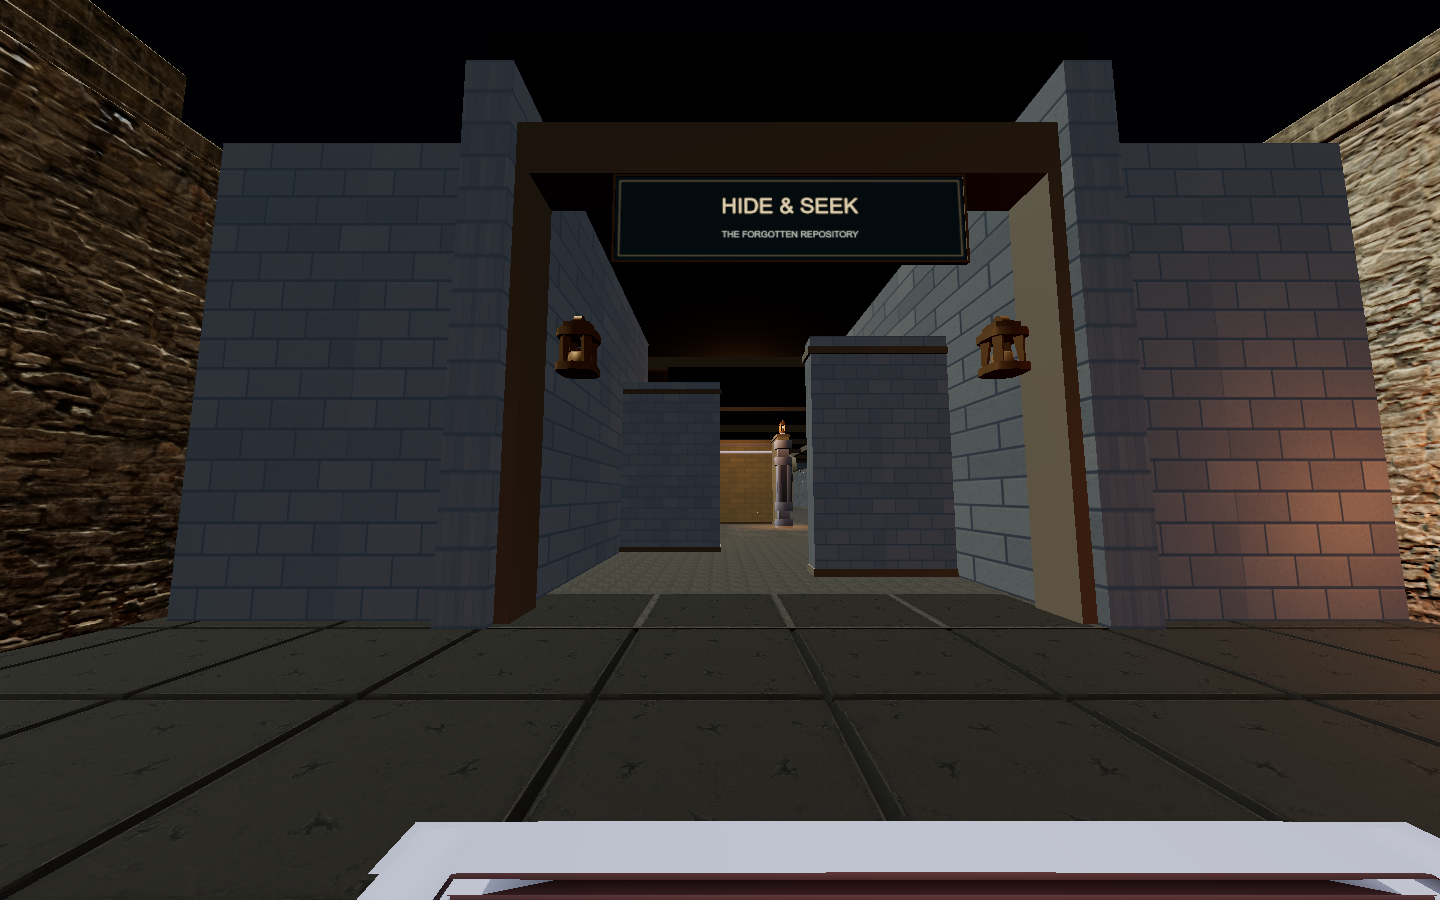
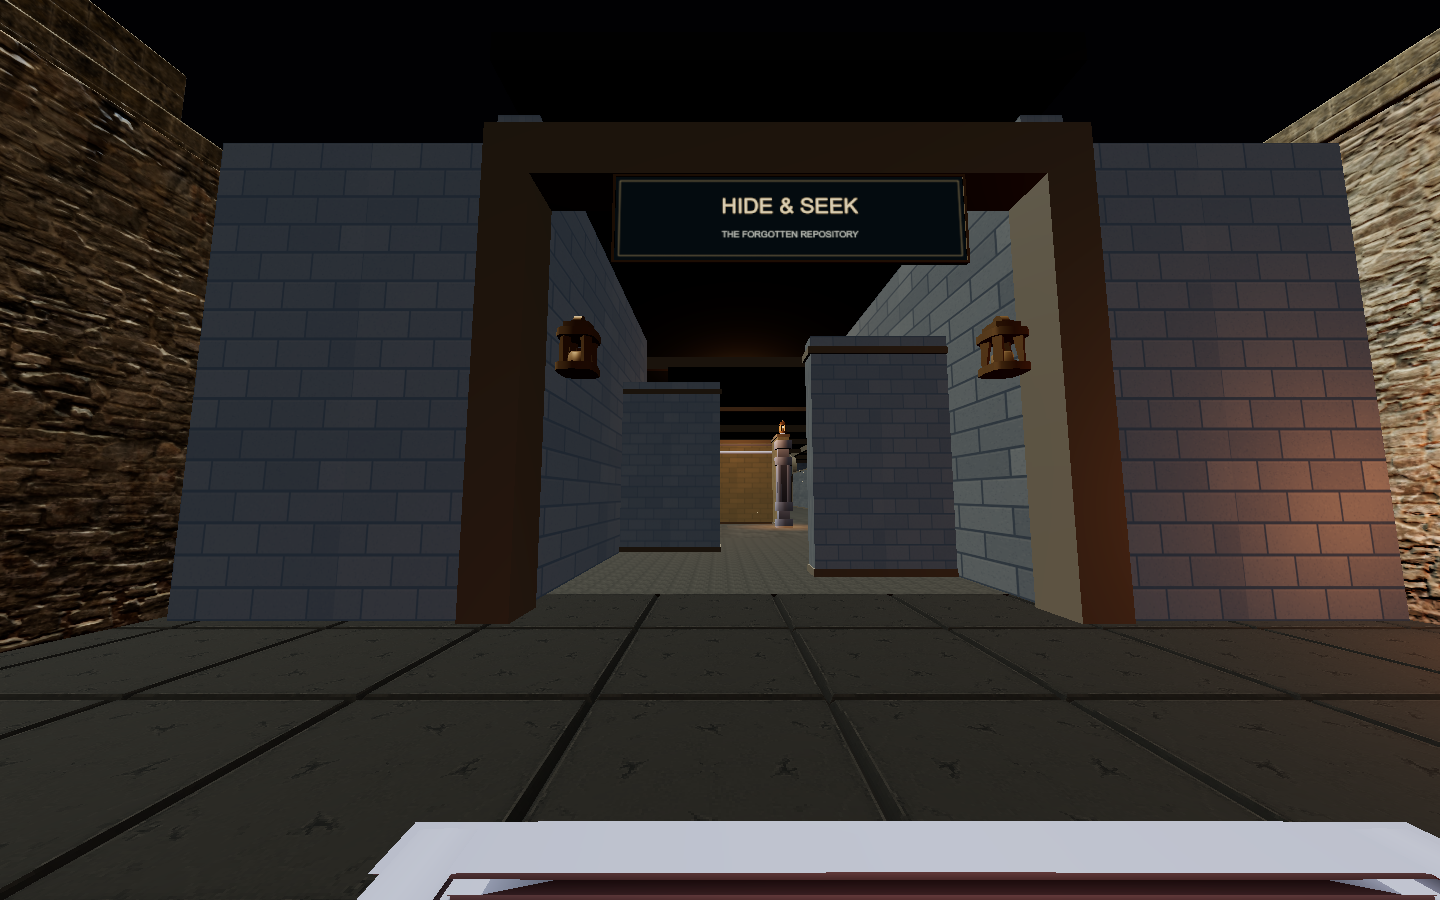
Fix overlapping surfaces at hide-and-seek entrance

diff --git a/src/courtyard-hide-and-seek-scene.ts b/src/courtyard-hide-and-seek-scene.ts
@@ -1,7 +1,7 @@
 import * as THREE from 'three';
 import {GLTFLoader} from 'three/addons/loaders/GLTFLoader.js';
 import {createCourtyardSign} from './courtyard-sign';
-import {HIDE_WALLS,HIDE_PARTITIONS,HIDE_COVER,HIDE_PROPS,HIDE_ISLANDS,HIDE_ZONES,HIDE_GATEPOSTS,hideLocal,type HideBlock} from './courtyard-hide-and-seek';
+import {HIDE_WALLS,HIDE_PARTITIONS,HIDE_COVER,HIDE_PROPS,HIDE_ISLANDS,HIDE_ZONES,HIDE_GATEPOSTS,HIDE_FLOORS,HIDE_ROOFS,hideLocal,type HideBlock} from './courtyard-hide-and-seek';
 
 /** An enclosed lantern-lit repository. All cover is built from the physics layout. */
 export class CourtyardHideAndSeekScene{
@@ -74,9 +74,9 @@ export class CourtyardHideAndSeekScene{
   this.cubes('repository-walls',[...HIDE_WALLS,...HIDE_PARTITIONS],this.stone);
   for(const zone of HIDE_ZONES){const material=this.stone.clone();material.color.setHex(zone.color);material.emissive.setHex(zone.color);material.emissiveIntensity=.09;const blocks=HIDE_ISLANDS.flatMap((island,i)=>island.zone===zone.id?HIDE_COVER.slice(i*3,i*3+3):[]);this.cubes('repository-cover-'+zone.id,blocks,material);}
   // Continuous roof, including the passage. No walkable upper level or open seams.
-  this.cubes('repository-vault',[{x:-50,z:2,w:65.4,d:57.4,h:.45},{x:-12.15,z:2,w:12.4,d:8.7,h:.45}],new THREE.MeshStandardMaterial({color:0x252b30,roughness:1}),8);
+  this.cubes('repository-vault',HIDE_ROOFS,new THREE.MeshStandardMaterial({color:0x252b30,roughness:1}),8);
   const floorMap=this.stoneTexture();floorMap.repeat.set(25,22);
-  this.cubes('repository-floor',[{x:-50,z:2,w:64,d:56,h:.16},{x:-12.15,z:2,w:12.3,d:8,h:.16}],new THREE.MeshStandardMaterial({map:floorMap,color:0x85817b,roughness:.95}),-.16);
+  this.cubes('repository-floor',HIDE_FLOORS,new THREE.MeshStandardMaterial({map:floorMap,color:0x85817b,roughness:.95}),-.16);
   const caps=[...HIDE_PARTITIONS,...HIDE_COVER].map(b=>({...b,w:b.w+.12,d:b.d+.12,h:.16}));
   this.cubes('repository-coping',caps,this.trim,4.8);
   this.cubes('repository-arch-posts',HIDE_GATEPOSTS,this.trim);

diff --git a/tests/hide-and-seek.test.ts b/tests/hide-and-seek.test.ts
@@ -1,12 +1,21 @@
 import test from 'node:test';
 import assert from 'node:assert/strict';
-import {HIDE_SOLIDS,HIDE_SPOTS,HIDE_ROOM,constrainHideSolids} from '../src/courtyard-hide-and-seek';
-import {courtyardCanOccupy,createCourtyard,COURTYARD_CAMERA_BLOCKERS} from '../src/courtyard-state';
+import {HIDE_SOLIDS,HIDE_SPOTS,HIDE_ROOM,HIDE_FLOORS,HIDE_ROOFS,constrainHideSolids} from '../src/courtyard-hide-and-seek';
+import {courtyardCanOccupy,createCourtyard,COURTYARD_CAMERA_BLOCKERS,COURTYARD_FLOOR_TILES} from '../src/courtyard-state';
 import {World,idleInput} from '../src/simulation';
 import {FriendsSession,applySnapshot} from '../src/multiplayer';
 import {encodeState,decodeState} from '../src/network-state';
 
 const free=(x:number,z:number)=>courtyardCanOccupy(x,z)&&!HIDE_SOLIDS.some(s=>Math.abs(x-s.x)<s.w/2+.24&&Math.abs(z-s.z)<s.d/2+.24);
+test('entrance floor has exactly one surface across both thresholds and roof slabs do not overlap',()=>{
+ const floors=[...HIDE_FLOORS,...COURTYARD_FLOOR_TILES.map(p=>({...p,w:2,d:2}))];
+ for(let x=-19.93;x< -5.9;x+=.17)for(let z=-1.87;z<5.9;z+=.23){
+  assert.equal(floors.filter(f=>Math.abs(x-f.x)<f.w/2&&Math.abs(z-f.z)<f.d/2).length,1,`floor ownership at ${x},${z}`);
+ }
+ const [room,passage]=HIDE_ROOFS;
+ assert.ok(Math.min(room.x+room.w/2,passage.x+passage.w/2)-Math.max(room.x-room.w/2,passage.x-passage.w/2)<=1e-8);
+ assert.ok(Math.abs(room.x+room.w/2-(passage.x-passage.w/2))<1e-8,'ceiling join must remain closed');
+});
 test('all 30 full-height hiding spots connect to spawn and the six zones',()=>{
  assert.equal(HIDE_SPOTS.length,30);assert.equal(new Set(HIDE_SPOTS.map(p=>p.zone)).size,6);
  // A .5m flood fill tests actual body clearance through both passage bends and all loops.

diff --git a/src/courtyard-hide-and-seek.ts b/src/courtyard-hide-and-seek.ts
@@ -2,6 +2,16 @@
 export type HideBlock={x:number;z:number;w:number;d:number;h:number};
 export const HIDE_ROOM={minX:-82,maxX:-18,minZ:-26,maxZ:30};
 export const HIDE_PASSAGE={minX:-18,maxX:-6.3,minZ:-2,maxZ:6};
+/** The existing courtyard tiles reach x=-8. Each floor surface has one owner. */
+export const HIDE_FLOORS=[
+ {x:-50,z:2,w:64,d:56,h:.16},
+ {x:-13,z:2,w:10,d:8,h:.16},
+];
+/** Roof slabs meet at x=-17.3 instead of overlapping above the passage mouth. */
+export const HIDE_ROOFS=[
+ {x:-50,z:2,w:65.4,d:57.4,h:.45},
+ {x:-11.625,z:2,w:11.35,d:8.7,h:.45},
+];
 export function inHideRoom(x:number,z:number){return x>=HIDE_ROOM.minX&&x<=HIDE_ROOM.maxX&&z>=HIDE_ROOM.minZ&&z<=HIDE_ROOM.maxZ;}
 export function inHideWing(x:number,z:number){return inHideRoom(x,z)||x>=HIDE_PASSAGE.minX&&x<=HIDE_PASSAGE.maxX&&z>=HIDE_PASSAGE.minZ&&z<=HIDE_PASSAGE.maxZ;}
 const box=(x:number,z:number,w:number,d:number,h=4.8):HideBlock=>({x,z,w,d,h});
@@ -44,7 +54,9 @@ export const HIDE_PARTITIONS=[
 export const HIDE_WALLS=[
  box(-82.35,2,.7,56.7,8),box(-50,-26.35,64,.7,8),box(-50,30.35,64,.7,8),
  box(-17.65,-14,.7,24,8),box(-17.65,18,.7,24,8),
- box(-12.15,-2.35,12.4,.7,8),box(-12.15,6.35,12.4,.7,8),
+ // Butt into the room's east wall and the courtyard's west wall without
+ // duplicate coplanar end strips on their inner faces.
+ box(-12.1,-2.35,10.4,.7,8),box(-12.1,6.35,10.4,.7,8),
  // Split the original west courtyard wall around the new opening.
  box(-6.6,-4.175,.6,4.35,7),box(-6.6,8.25,.6,4.5,7),
 ];
